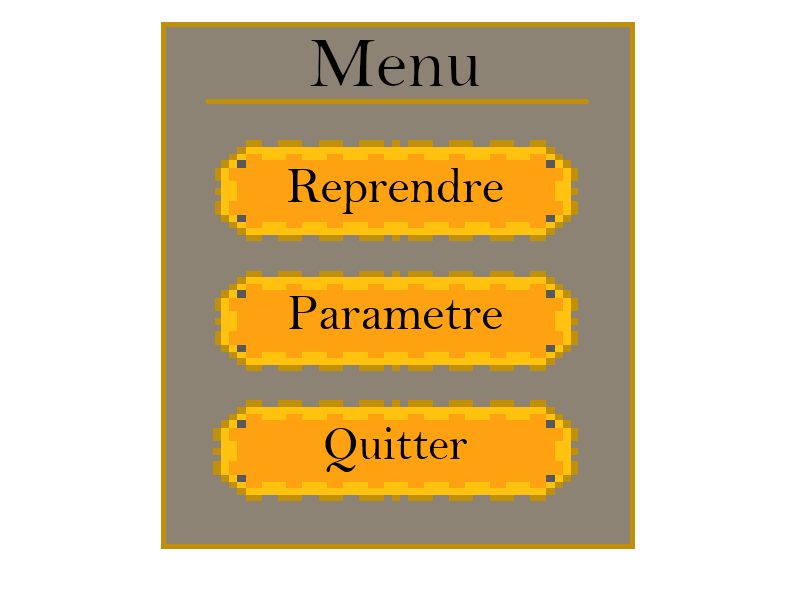
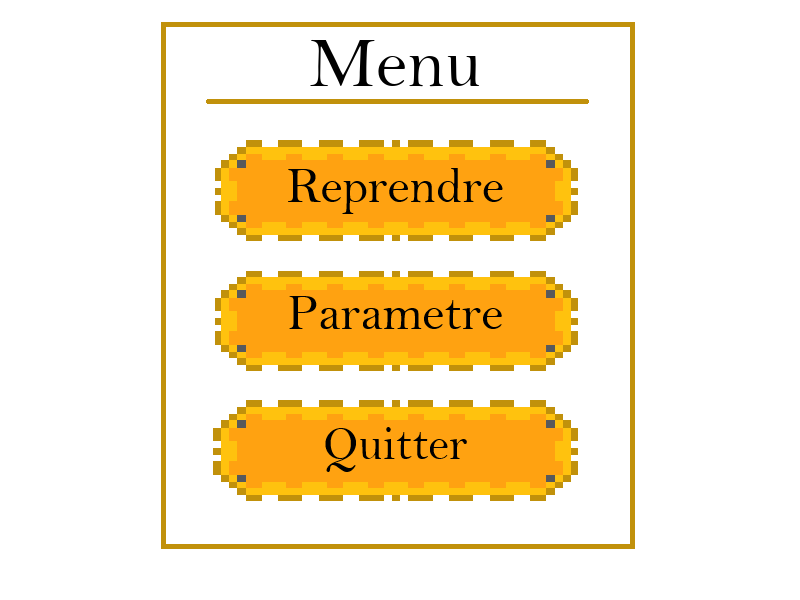
Optimisation du menu Ajout : menu_back.png Modification : menu.png

Changed region(s): [[0.1875, 0.03, 0.8125, 0.93]]

diff --git a/menu.py b/menu.py
@@ -5,15 +5,13 @@ from settings import *
 
 class Menu:
     def __init__(self):
-        """
-        Initialise le jeu, configure la fenêtre de jeu, et définit les cartes et mini-jeux disponibles.
-        """
         self.afficher = True
         self.screen = pygame.display.set_mode(RES,pygame.SCALED)
         self.font = pygame.font.Font(Font, 65)
 
+        self.menu_background = pygame.image.load("img/ui/menu_back.png")
+
         self.menu_image = pygame.image.load("img/ui/menu.png")
-        self.menu_image.set_colorkey((255, 255, 255))
 
         self.rect_reprendre = pygame.Rect(225, 145, 340, 87)
         self.rect_parametre = pygame.Rect(225, 145+130, 340, 87)
@@ -28,18 +26,24 @@ class Menu:
 
         self.end = False #ordonne de fermer le jeu
 
+        self.button_survoller = False
+
+        self.screen.blit(self.menu_background, (0, 0))
+        pygame.display.flip()
+
     def draw(self):
         self.screen.blit(self.menu_image, (0, 0))
         #pygame.draw.rect(self.screen, (0, 0, 0), self.reprendre)
         #pygame.draw.rect(self.screen, (0, 0, 0), self.settings)
         #pygame.draw.rect(self.screen, (0, 0, 0), self.rect_quitter)
-        pygame.display.flip()
+        pygame.display.update((225, 145, 340, 87))
 
     def _gerer_event(self):
         """
         Gère les événements du jeu (clavier, fermeture de la fenêtre, etc.).
         (60/s)
         """
+        click = False
         for event in pygame.event.get():
             if event.type == pygame.QUIT:  # quitter
                 self.afficher = False
@@ -54,24 +58,34 @@ class Menu:
                 if event.key == pygame.K_m:
                     print("musique")
                     self.musique()
-            if event.type == pygame.MOUSEBUTTONDOWN:
-                x, y, = pygame.mouse.get_pos()
-                if self.rect_reprendre.collidepoint(x, y): self.reprendre()
-                elif self.rect_parametre.collidepoint(x, y): self.parametre()
-                elif self.rect_quitter.collidepoint(x, y): self.quitter()
+            if event.type == pygame.MOUSEBUTTONDOWN and event.button == 1:
+                click = True
 
         x, y, = pygame.mouse.get_pos()
+
+
         if self.rect_reprendre.collidepoint(x, y):
             self.screen.blit(self.click_back, (214, 140))
-            pygame.display.flip()
+            pygame.display.update(self.rect_reprendre)
+            self.button_survoller = True
+            if click : self.reprendre()
+
         elif self.rect_parametre.collidepoint(x, y):
             self.screen.blit(self.click_parametre, (216, 142 + 130))
-            pygame.display.flip()
+            pygame.display.update(self.rect_parametre)
+            self.button_survoller = True
+            if click: self.parametre()
+
         elif self.rect_quitter.collidepoint(x, y):
             self.screen.blit(self.click_exit, (214, 140 + 260))
-            pygame.display.flip()
+            pygame.display.update(self.rect_quitter)
+            self.button_survoller = True
+            if click: self.quitter()
+
         else:
-            self.draw()
+            if self.button_survoller:
+                self.button_survoller = False
+                self.draw()
 
     def reprendre(self):
         print("    Reprendre")
